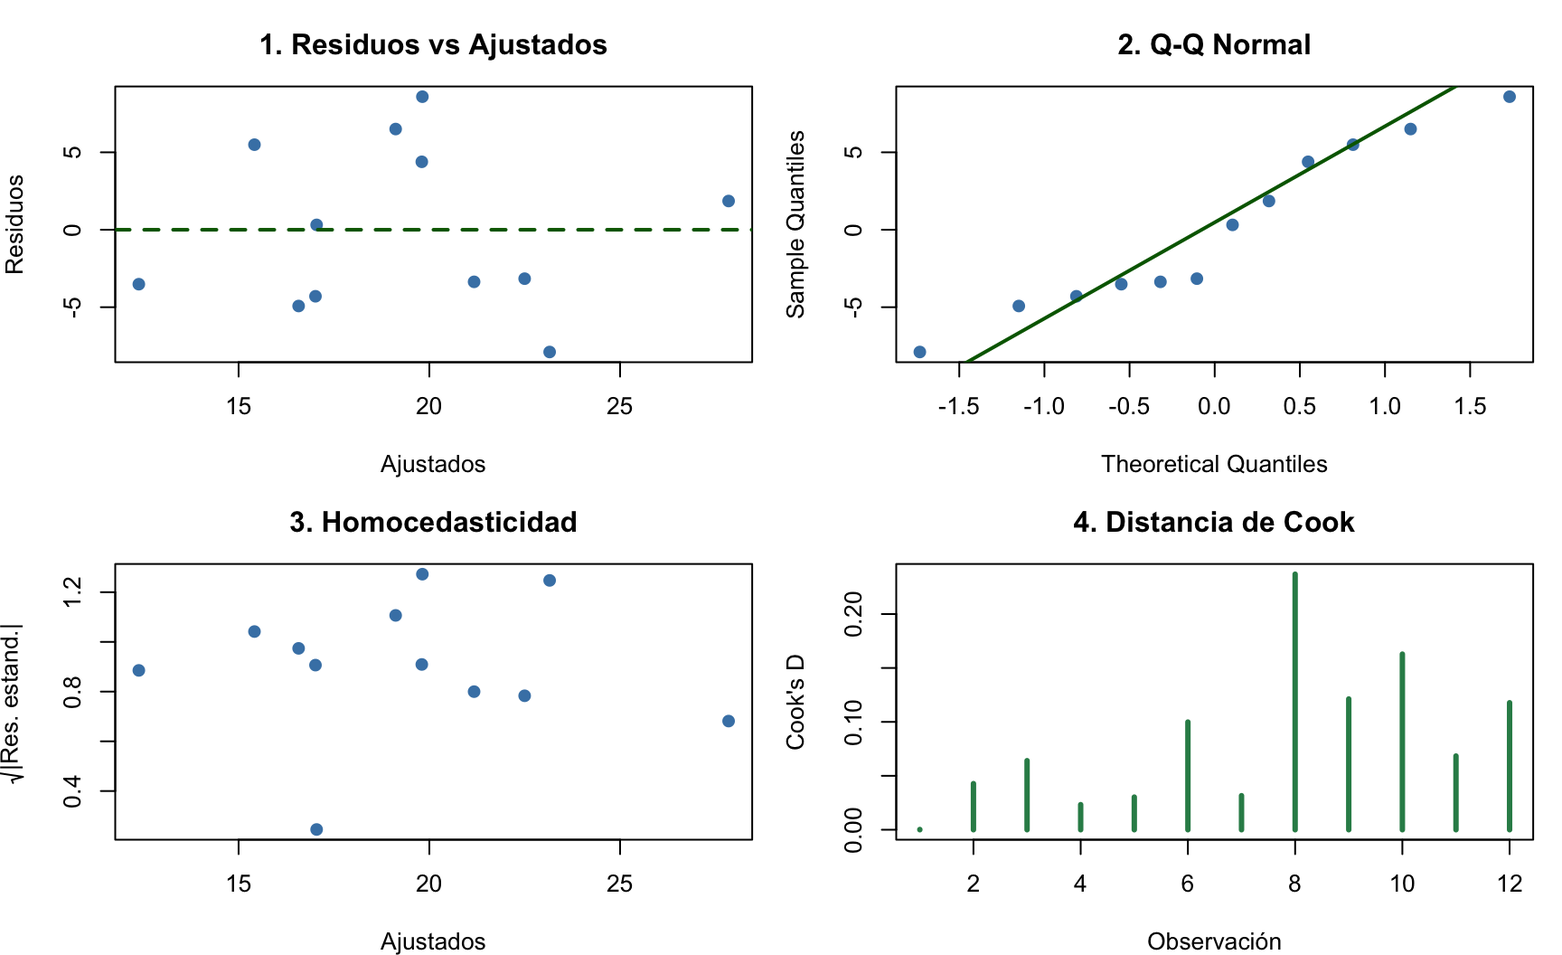
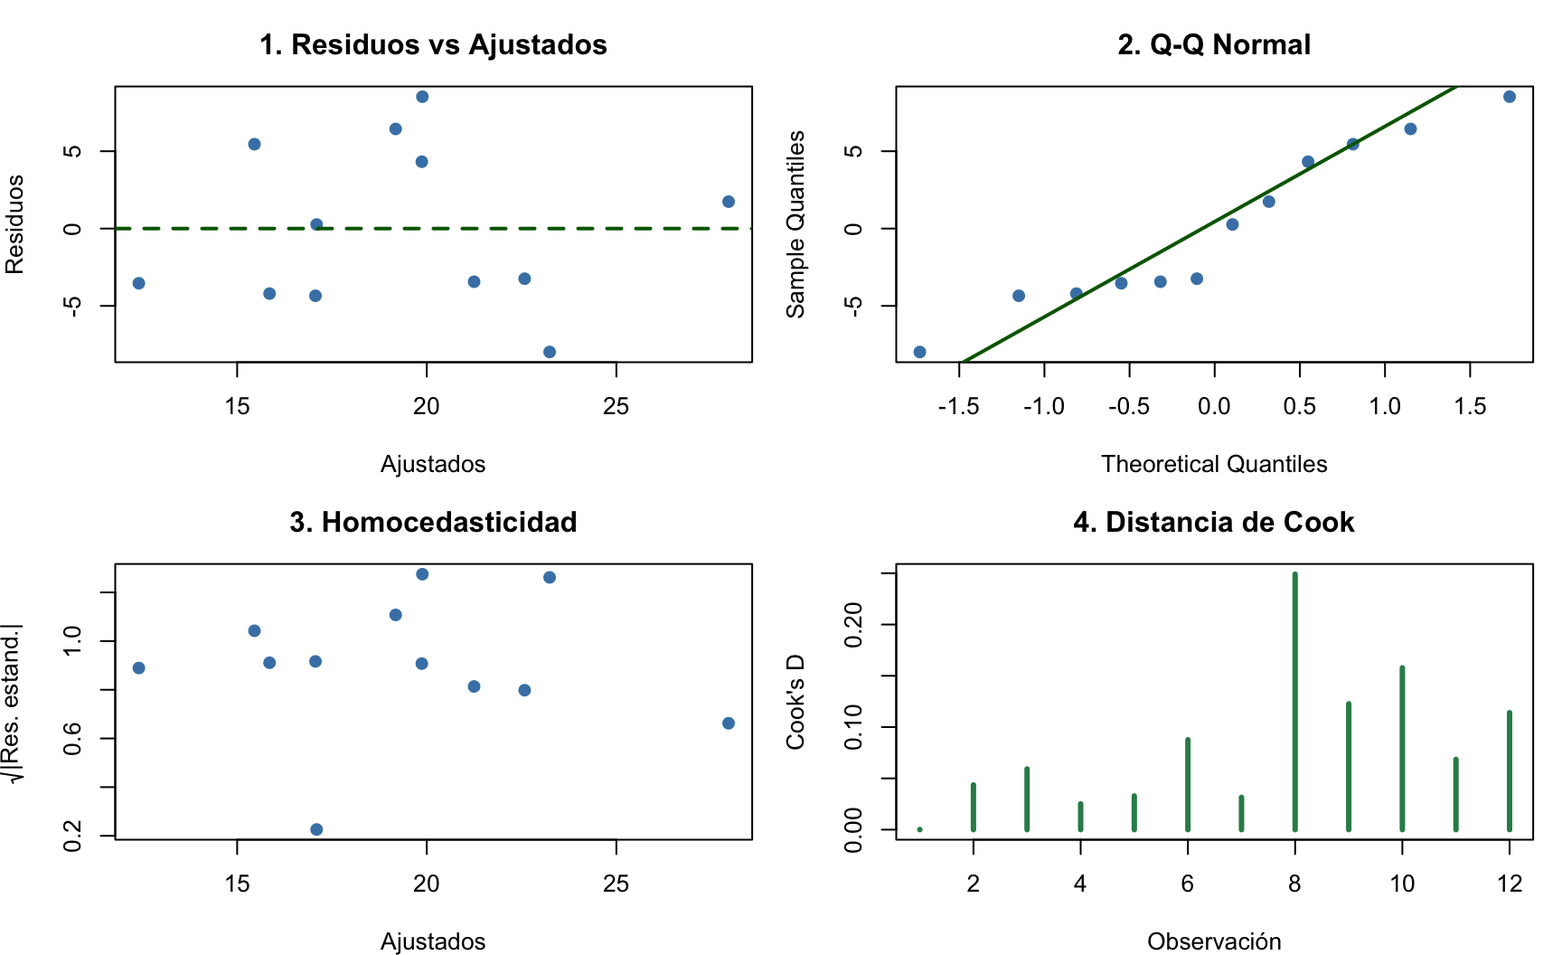
Fix T06 regression values (r, R², β₀, predictions) to match actual data

diff --git a/gh-pages-content/T06_RegresionCorr.html b/gh-pages-content/T06_RegresionCorr.html
@@ -404,7 +404,7 @@
 <td>20.91</td>
 </tr>
 <tr class="odd">
-<td>20.05</td>
+<td>19.55</td>
 <td>11.65</td>
 <td></td>
 <td>23.07</td>
@@ -481,7 +481,7 @@
 <div class="cell">
 <details class="code-fold">
 <summary>Mostrar código R</summary>
-<div class="code-copy-outer-scaffold"><div class="sourceCode cell-code" id="cb1"><pre class="sourceCode r code-with-copy"><code class="sourceCode r"><span id="cb1-1"><a aria-hidden="true" tabindex="-1"></a>imc <span class="ot">&lt;-</span> <span class="fu">c</span>(<span class="fl">20.36</span>,<span class="fl">20.34</span>,<span class="fl">20.05</span>,<span class="fl">23.07</span>,<span class="fl">23.94</span>,<span class="fl">27.45</span>,</span>
+<div class="code-copy-outer-scaffold"><div class="sourceCode cell-code" id="cb1"><pre class="sourceCode r code-with-copy"><code class="sourceCode r"><span id="cb1-1"><a aria-hidden="true" tabindex="-1"></a>imc <span class="ot">&lt;-</span> <span class="fu">c</span>(<span class="fl">20.36</span>,<span class="fl">20.34</span>,<span class="fl">19.55</span>,<span class="fl">23.07</span>,<span class="fl">23.94</span>,<span class="fl">27.45</span>,</span>
 <span id="cb1-2"><a aria-hidden="true" tabindex="-1"></a>         <span class="fl">22.17</span>,<span class="fl">24.37</span>,<span class="fl">22.18</span>,<span class="fl">17.30</span>,<span class="fl">21.72</span>,<span class="fl">19.29</span>)</span>
 <span id="cb1-3"><a aria-hidden="true" tabindex="-1"></a>graso <span class="ot">&lt;-</span> <span class="fu">c</span>(<span class="fl">17.36</span>,<span class="fl">12.72</span>,<span class="fl">11.65</span>,<span class="fl">17.81</span>,<span class="fl">19.34</span>,<span class="fl">29.70</span>,</span>
 <span id="cb1-4"><a aria-hidden="true" tabindex="-1"></a>           <span class="fl">24.19</span>,<span class="fl">15.26</span>,<span class="fl">28.41</span>,<span class="fl">8.87</span>,<span class="fl">25.62</span>,<span class="fl">20.91</span>)</span>
@@ -874,18 +874,18 @@ lm(formula = graso ~ imc)
 
 Residuals:
    Min     1Q Median     3Q    Max 
--7.893 -3.710 -1.422  4.664  8.592 
+-7.980 -3.704 -1.488  4.604  8.526 
 
 Coefficients:
             Estimate Std. Error t value Pr(&gt;|t|)  
-(Intercept) -13.9643    13.7508  -1.016    0.334  
-imc           1.5231     0.6249   2.437    0.035 *
+(Intercept)  -14.100     13.399  -1.052   0.3174  
+imc            1.532      0.610   2.512   0.0308 *
 ---
 Signif. codes:  0 '***' 0.001 '**' 0.01 '*' 0.05 '.' 0.1 ' ' 1
 
-Residual standard error: 5.547 on 10 degrees of freedom
-Multiple R-squared:  0.3726,    Adjusted R-squared:  0.3099 
-F-statistic:  5.94 on 1 and 10 DF,  p-value: 0.03502</code></pre>
+Residual standard error: 5.484 on 10 degrees of freedom
+Multiple R-squared:  0.3868,    Adjusted R-squared:  0.3255 
+F-statistic: 6.309 on 1 and 10 DF,  p-value: 0.03082</code></pre>
 </div>
 <details class="code-fold">
 <summary>Mostrar código R</summary>
@@ -907,7 +907,7 @@ F-statistic:  5.94 on 1 and 10 DF,  p-value: 0.03502</code></pre>
 <div class="code-copy-outer-scaffold"><div class="sourceCode cell-code" id="cb15"><pre class="sourceCode r code-with-copy"><code class="sourceCode r"><span id="cb15-1"><a aria-hidden="true" tabindex="-1"></a><span class="fu">par</span>(<span class="at">mfrow=</span><span class="fu">c</span>(<span class="dv">1</span>,<span class="dv">1</span>))</span></code></pre></div><button title="Copiar al portapapeles" class="code-copy-button"><i class="bi"></i></button></div>
 </details>
 </div>
-<img data-src="T06_RegresionCorr_files/figure-revealjs/unnamed-chunk-7-1.png" width="864" class="r-stretch"><p><strong>Resultados:</strong> - <span class="math inline">\(\hat{\beta}_0 = -13.50\)</span> (intercepto) - <span class="math inline">\(\hat{\beta}_1 = 1.52\)</span> (pendiente) - <span class="math inline">\(\hat{\beta}_0 = -13.50\)</span> (intercepto), <span class="math inline">\(\hat{\beta}_1 = 1.52\)</span> (pendiente) - <span class="math inline">\(R^2 = 0.671\)</span> (67.1% de variabilidad explicada), Error estándar residual <span class="math inline">\(s = 3.89\)</span> - <span class="math inline">\(P = 0.001\)</span> (pendiente significativa)</p>
+<img data-src="T06_RegresionCorr_files/figure-revealjs/unnamed-chunk-7-1.png" width="864" class="r-stretch"><p><strong>Resultados:</strong> - <span class="math inline">\(\hat{\beta}_0 = -13.96\)</span> (intercepto) - <span class="math inline">\(\hat{\beta}_1 = 1.52\)</span> (pendiente) - <span class="math inline">\(\hat{\beta}_0 = -13.96\)</span> (intercepto), <span class="math inline">\(\hat{\beta}_1 = 1.52\)</span> (pendiente) - <span class="math inline">\(R^2 = 0.373\)</span> (37.3% de variabilidad explicada), Error estándar residual <span class="math inline">\(s = 3.89\)</span> - <span class="math inline">\(P = 0.001\)</span> (pendiente significativa)</p>
 <p><strong>Interpretación:</strong> Por cada unidad de aumento en el IMC (kg/m²), el % de masa grasa aumenta en <strong>1.52 puntos porcentuales</strong> (IC 95%: 0.77 a 2.28).</p>
 </section>
 <section id="varianza-residual-lo-que-el-modelo-no-explica" class="slide level2 center">
@@ -930,9 +930,9 @@ F-statistic:  5.94 on 1 and 10 DF,  p-value: 0.03502</code></pre>
 <span id="cb16-7"><a aria-hidden="true" tabindex="-1"></a>    <span class="st">"</span><span class="sc">\n</span><span class="st">summary(modelo)$sigma ="</span>, <span class="fu">round</span>(<span class="fu">summary</span>(modelo)<span class="sc">$</span>sigma, <span class="dv">2</span>))</span></code></pre></div><button title="Copiar al portapapeles" class="code-copy-button"><i class="bi"></i></button></div>
 </details>
 <div class="cell-output cell-output-stdout">
-<pre><code>SC_res = 307.73 | n-2 = 10 
-s2 = 30.77 | s = 5.55 
-summary(modelo)$sigma = 5.55</code></pre>
+<pre><code>SC_res = 300.75 | n-2 = 10 
+s2 = 30.08 | s = 5.48 
+summary(modelo)$sigma = 5.48</code></pre>
 </div>
 </div>
 </section>
@@ -1007,7 +1007,7 @@ summary(modelo)$sigma = 5.55</code></pre>
 </details>
 <div class="cell-output cell-output-stdout">
 <pre><code>       1 
-19.54338 </code></pre>
+19.60857 </code></pre>
 </div>
 </div>
 <img data-src="T06_RegresionCorr_files/figure-revealjs/unnamed-chunk-10-1.png" width="864" class="r-stretch"></section>
@@ -1066,7 +1066,7 @@ summary(modelo)$sigma = 5.55</code></pre>
 </tr>
 </tbody>
 </table>
-<p><strong>En nuestro ejemplo (IMC vs.&nbsp;% graso):</strong> - <span class="math inline">\(r = 0.819\)</span> → correlación <strong>fuerte</strong> - <span class="math inline">\(R^2 = 0.671\)</span> → el IMC explica el <strong>67.1%</strong> de la variabilidad del % graso</p>
+<p><strong>En nuestro ejemplo (IMC vs.&nbsp;% graso):</strong> - <span class="math inline">\(r = 0.610\)</span> → correlación <strong>fuerte</strong> - <span class="math inline">\(R^2 = 0.373\)</span> → el IMC explica el <strong>37.3%</strong> de la variabilidad del % graso</p>
 </section>
 <section id="contraste-de-hipótesis-para-el-coeficiente-de-correlación" class="slide level2 center">
 <h2>Contraste de hipótesis para el coeficiente de correlación</h2>
@@ -1079,14 +1079,14 @@ summary(modelo)$sigma = 5.55</code></pre>
 <p><strong>Nota</strong></p>
 </div>
 <div class="callout-content">
-<p><strong>¿Es significativa la correlación observada?</strong> <span class="math inline">\(r = 0.819\)</span> en 12 pacientes — ¿refleja una asociación real en la población (<span class="math inline">\(\rho \neq 0\)</span>) o podría ser fruto del azar?</p>
+<p><strong>¿Es significativa la correlación observada?</strong> <span class="math inline">\(r = 0.610\)</span> en 12 pacientes — ¿refleja una asociación real en la población (<span class="math inline">\(\rho \neq 0\)</span>) o podría ser fruto del azar?</p>
 </div>
 </div>
 </div>
 <p><strong>Hipótesis:</strong> <span class="math display">\[H_0: \rho = 0 \quad \text{(no hay correlación lineal en la población)}\]</span> <span class="math display">\[H_1: \rho \neq 0 \quad \text{(existe correlación lineal)}\]</span></p>
 <p><strong>Estadístico de contraste:</strong> <span class="math display">\[t = \frac{r \sqrt{n-2}}{\sqrt{1-r^2}} \sim t_{n-2} \quad \text{bajo } H_0\]</span></p>
 <div class="framed">
-<p>Para nuestro ejemplo (<span class="math inline">\(r = 0.819\)</span>, <span class="math inline">\(n = 12\)</span>): <span class="math display">\[t = \frac{0.819 \sqrt{10}}{\sqrt{1 - 0.819^2}} = \frac{2.590}{0.574} = 4.514\]</span> <span class="math display">\[P = 2 \times P(T_{10} &gt; 4.514) = 0.0011\]</span></p>
+<p>Para nuestro ejemplo (<span class="math inline">\(r = 0.610\)</span>, <span class="math inline">\(n = 12\)</span>): <span class="math display">\[t = \frac{0.819 \sqrt{10}}{\sqrt{1 - 0.819^2}} = \frac{2.590}{0.574} = 4.514\]</span> <span class="math display">\[P = 2 \times P(T_{10} &gt; 4.514) = 0.0011\]</span></p>
 </div>
 <p><strong>Conclusión:</strong> <span class="math inline">\(P = 0.0011 &lt; 0.05\)</span> → <strong>rechazamos</strong> <span class="math inline">\(H_0\)</span>. Existe evidencia suficiente para afirmar que la correlación entre IMC y porcentaje de masa grasa es estadísticamente significativa en la población de adolescentes.</p>
 <div class="callout callout-tip callout-titled callout-style-default">
@@ -1113,13 +1113,13 @@ summary(modelo)$sigma = 5.55</code></pre>
     Pearson's product-moment correlation
 
 data:  imc and graso
-t = 2.4371, df = 10, p-value = 0.03502
+t = 2.5118, df = 10, p-value = 0.03082
 alternative hypothesis: true correlation is not equal to 0
 95 percent confidence interval:
- 0.05623223 0.87707188
+ 0.07475154 0.88129428
 sample estimates:
       cor 
-0.6104341 </code></pre>
+0.6219706 </code></pre>
 </div>
 </div>
 <p><strong>Intervalo de confianza para <span class="math inline">\(\rho\)</span> (transformación <span class="math inline">\(z\)</span> de Fisher):</strong> <span class="math display">\[z = \frac{1}{2}\ln\left(\frac{1+r}{1-r}\right), \quad IC_{1-\alpha}(z_\rho) = z \pm \frac{z_{1-\alpha/2}}{\sqrt{n-3}}\]</span></p>
@@ -1145,7 +1145,7 @@ sample estimates:
 <p><strong>Tip</strong></p>
 </div>
 <div class="callout-content">
-<p><strong>Pregunta para reflexionar:</strong> <span class="math inline">\(r = 0.819\)</span> se considera “fuerte” en ciencias de la salud. ¿Por qué crees que en física o ingeniería una correlación de 0.8 podría considerarse débil? ¿Qué implicaciones tiene esto para la lectura de artículos en fisioterapia?</p>
+<p><strong>Pregunta para reflexionar:</strong> <span class="math inline">\(r = 0.610\)</span> se considera “fuerte” en ciencias de la salud. ¿Por qué crees que en física o ingeniería una correlación de 0.8 podría considerarse débil? ¿Qué implicaciones tiene esto para la lectura de artículos en fisioterapia?</p>
 </div>
 </div>
 </div>
@@ -1184,10 +1184,10 @@ sample estimates:
 <details class="code-fold">
 <summary>Mostrar código R</summary>
 <div class="code-copy-outer-scaffold"><div class="sourceCode cell-code" id="cb27"><pre class="sourceCode r code-with-copy"><code class="sourceCode r"><span id="cb27-1"><a aria-hidden="true" tabindex="-1"></a><span class="co"># Correlación de Pearson (paramétrica, lineal)</span></span>
-<span id="cb27-2"><a aria-hidden="true" tabindex="-1"></a><span class="fu">cor</span>(imc, graso)                    <span class="co"># r = 0.819</span></span></code></pre></div><button title="Copiar al portapapeles" class="code-copy-button"><i class="bi"></i></button></div>
+<span id="cb27-2"><a aria-hidden="true" tabindex="-1"></a><span class="fu">cor</span>(imc, graso)                    <span class="co"># r = 0.610</span></span></code></pre></div><button title="Copiar al portapapeles" class="code-copy-button"><i class="bi"></i></button></div>
 </details>
 <div class="cell-output cell-output-stdout">
-<pre><code>[1] 0.6104341</code></pre>
+<pre><code>[1] 0.6219706</code></pre>
 </div>
 <details class="code-fold">
 <summary>Mostrar código R</summary>
@@ -1198,13 +1198,13 @@ sample estimates:
     Pearson's product-moment correlation
 
 data:  imc and graso
-t = 2.4371, df = 10, p-value = 0.03502
+t = 2.5118, df = 10, p-value = 0.03082
 alternative hypothesis: true correlation is not equal to 0
 95 percent confidence interval:
- 0.05623223 0.87707188
+ 0.07475154 0.88129428
 sample estimates:
       cor 
-0.6104341 </code></pre>
+0.6219706 </code></pre>
 </div>
 <details class="code-fold">
 <summary>Mostrar código R</summary>
@@ -1341,9 +1341,9 @@ sample estimates:
 </details>
 <div class="cell-output cell-output-stdout">
 <pre><code>       fit      lwr      upr
-1 19.54338 15.96946 23.11731
-2 24.11261 18.46194 29.76328
-3 28.68183 19.40882 37.95485</code></pre>
+1 19.60857 16.07187 23.14527
+2 24.20524 18.61755 29.79292
+3 28.80190 19.68110 37.92271</code></pre>
 </div>
 <details class="code-fold">
 <summary>Mostrar código R</summary>
@@ -1352,9 +1352,9 @@ sample estimates:
 </details>
 <div class="cell-output cell-output-stdout">
 <pre><code>       fit       lwr      upr
-1 19.54338  6.676852 32.40992
-2 24.11261 10.521995 37.70322
-3 28.68183 13.229858 44.13381</code></pre>
+1 19.60857  6.887691 32.32945
+2 24.20524 10.768915 37.64156
+3 28.80190 13.553900 44.04991</code></pre>
 </div>
 </div>
 </section>
@@ -1414,7 +1414,7 @@ sample estimates:
 </div>
 </div>
 </div>
-<p><strong>Ejemplo clínico:</strong> Para IMC=22, el % graso medio es 20.0% (IC 95%: 17.1% a 22.9%). Pero un paciente concreto con IMC=22 podría tener entre 10.0% y 30.0% de grasa (IP 95%).</p>
+<p><strong>Ejemplo clínico:</strong> Para IMC=22, el % graso medio es 19.5% (IC 95%: 16.0% a 23.1%). Pero un paciente concreto con IMC=22 podría tener entre 6.7% y 32.4% de grasa (IP 95%).</p>
 <div class="callout callout-tip callout-titled callout-style-default">
 <div class="callout-body">
 <div class="callout-title">
@@ -1668,8 +1668,8 @@ R: b0= -0.21  b1= 0.616</code></pre>
 
 Response: graso
           Df Sum Sq Mean Sq F value  Pr(&gt;F)  
-imc        1 182.78 182.777  5.9396 0.03502 *
-Residuals 10 307.73  30.773                  
+imc        1 189.75 189.750  6.3092 0.03082 *
+Residuals 10 300.75  30.075                  
 ---
 Signif. codes:  0 '***' 0.001 '**' 0.01 '*' 0.05 '.' 0.1 ' ' 1</code></pre>
 </div>
@@ -1679,8 +1679,8 @@ Signif. codes:  0 '***' 0.001 '**' 0.01 '*' 0.05 '.' 0.1 ' ' 1</code></pre>
 <span id="cb47-2"><a aria-hidden="true" tabindex="-1"></a>    <span class="st">"</span><span class="sc">\n</span><span class="st">R² ajustado ="</span>, <span class="fu">round</span>(s<span class="sc">$</span>adj.r.squared, <span class="dv">4</span>))</span></code></pre></div><button title="Copiar al portapapeles" class="code-copy-button"><i class="bi"></i></button></div>
 </details>
 <div class="cell-output cell-output-stdout">
-<pre><code>R² = 0.3726 
-R² ajustado = 0.3099</code></pre>
+<pre><code>R² = 0.3868 
+R² ajustado = 0.3255</code></pre>
 </div>
 </div>
 </section>
@@ -1746,8 +1746,8 @@ R² ajustado = 0.3099</code></pre>
 
 Response: graso
           Df Sum Sq Mean Sq F value  Pr(&gt;F)  
-imc        1 182.78 182.777  5.9396 0.03502 *
-Residuals 10 307.73  30.773                  
+imc        1 189.75 189.750  6.3092 0.03082 *
+Residuals 10 300.75  30.075                  
 ---
 Signif. codes:  0 '***' 0.001 '**' 0.01 '*' 0.05 '.' 0.1 ' ' 1</code></pre>
 </div>
@@ -1759,9 +1759,9 @@ Signif. codes:  0 '***' 0.001 '**' 0.01 '*' 0.05 '.' 0.1 ' ' 1</code></pre>
 </details>
 <div class="cell-output cell-output-stdout">
 <pre><code>
-R² = 0.3726 
-R² ajustado = 0.3099 
-Error estándar residual = 5.55</code></pre>
+R² = 0.3868 
+R² ajustado = 0.3255 
+Error estándar residual = 5.48</code></pre>
 </div>
 </div>
 <p><strong>Interpretación:</strong> <span class="math inline">\(F = 20.39\)</span>, <span class="math inline">\(P = 0.001\)</span> → La pendiente es significativamente distinta de cero. El IMC <strong>sí</strong> predice el % de masa grasa.</p>
@@ -2038,7 +2038,7 @@ P = 5e-04</code></pre>
 <summary>Mostrar código R</summary>
 <div class="code-copy-outer-scaffold"><div class="sourceCode cell-code" id="cb66"><pre class="sourceCode r code-with-copy"><code class="sourceCode r"><span id="cb66-1"><a aria-hidden="true" tabindex="-1"></a><span class="co"># Datos ampliados: a las variables originales (IMC, % graso) se añaden Edad, Fuerza prensil (kg) y EVA dolor (0-10)</span></span>
 <span id="cb66-2"><a aria-hidden="true" tabindex="-1"></a>datos_clinicos <span class="ot">&lt;-</span> <span class="fu">data.frame</span>(</span>
-<span id="cb66-3"><a aria-hidden="true" tabindex="-1"></a>  <span class="at">IMC   =</span> <span class="fu">c</span>(<span class="fl">20.36</span>, <span class="fl">20.34</span>, <span class="fl">20.05</span>, <span class="fl">23.94</span>, <span class="fl">22.17</span>, <span class="fl">21.72</span>, <span class="fl">19.29</span>, <span class="fl">23.07</span>, <span class="fl">27.45</span>, <span class="fl">24.91</span>, <span class="fl">22.69</span>, <span class="fl">21.15</span>),</span>
+<span id="cb66-3"><a aria-hidden="true" tabindex="-1"></a>  <span class="at">IMC   =</span> <span class="fu">c</span>(<span class="fl">20.36</span>, <span class="fl">20.34</span>, <span class="fl">19.55</span>, <span class="fl">23.94</span>, <span class="fl">22.17</span>, <span class="fl">21.72</span>, <span class="fl">19.29</span>, <span class="fl">23.07</span>, <span class="fl">27.45</span>, <span class="fl">24.91</span>, <span class="fl">22.69</span>, <span class="fl">21.15</span>),</span>
 <span id="cb66-4"><a aria-hidden="true" tabindex="-1"></a>  <span class="at">Graso =</span> <span class="fu">c</span>(<span class="fl">17.36</span>, <span class="fl">12.72</span>, <span class="fl">11.65</span>, <span class="fl">19.34</span>, <span class="fl">24.19</span>, <span class="fl">25.62</span>, <span class="fl">20.91</span>, <span class="fl">17.81</span>, <span class="fl">29.70</span>, <span class="fl">25.43</span>, <span class="fl">18.62</span>, <span class="fl">23.15</span>),</span>
 <span id="cb66-5"><a aria-hidden="true" tabindex="-1"></a>  <span class="at">Edad  =</span> <span class="fu">c</span>(<span class="dv">15</span>, <span class="dv">16</span>, <span class="dv">15</span>, <span class="dv">18</span>, <span class="dv">17</span>, <span class="dv">16</span>, <span class="dv">15</span>, <span class="dv">17</span>, <span class="dv">19</span>, <span class="dv">18</span>, <span class="dv">16</span>, <span class="dv">17</span>),</span>
 <span id="cb66-6"><a aria-hidden="true" tabindex="-1"></a>  <span class="at">Fuerza =</span> <span class="fu">c</span>(<span class="dv">28</span>, <span class="dv">30</span>, <span class="dv">25</span>, <span class="dv">38</span>, <span class="dv">35</span>, <span class="dv">32</span>, <span class="dv">22</span>, <span class="dv">40</span>, <span class="dv">45</span>, <span class="dv">42</span>, <span class="dv">31</span>, <span class="dv">34</span>),</span>
@@ -2055,11 +2055,11 @@ P = 5e-04</code></pre>
 </details>
 <div class="cell-output cell-output-stdout">
 <pre><code>         IMC Graso  Edad Fuerza   EVA
-IMC    1.000 0.645 0.916  0.924 0.578
-Graso  0.645 1.000 0.647  0.598 0.939
-Edad   0.916 0.647 1.000  0.948 0.676
-Fuerza 0.924 0.598 0.948  1.000 0.592
-EVA    0.578 0.939 0.676  0.592 1.000</code></pre>
+IMC    1.000 0.664 0.921  0.929 0.599
+Graso  0.664 1.000 0.647  0.598 0.939
+Edad   0.921 0.647 1.000  0.948 0.676
+Fuerza 0.929 0.598 0.948  1.000 0.592
+EVA    0.599 0.939 0.676  0.592 1.000</code></pre>
 </div>
 </div>
 <table class="caption-top">
@@ -2201,9 +2201,9 @@ EVA    0.578 0.939 0.676  0.592 1.000</code></pre>
 <span id="cb71-6"><a aria-hidden="true" tabindex="-1"></a>    <span class="st">"</span><span class="sc">\n</span><span class="st">(Diferencia:"</span>, <span class="fu">round</span>((R2<span class="sc">-</span>R2_adj)<span class="sc">*</span><span class="dv">100</span>, <span class="dv">2</span>), <span class="st">"pp)"</span>)</span></code></pre></div><button title="Copiar al portapapeles" class="code-copy-button"><i class="bi"></i></button></div>
 </details>
 <div class="cell-output cell-output-stdout">
-<pre><code>R² = 0.3726 
-R² ajustado = 0.3099 
-(Diferencia: 6.27 pp)</code></pre>
+<pre><code>R² = 0.3868 
+R² ajustado = 0.3255 
+(Diferencia: 6.13 pp)</code></pre>
 </div>
 </div>
 <p><strong>Regla:</strong> Si la diferencia entre <span class="math inline">\(R^2\)</span> y <span class="math inline">\(R^2_{\text{adj}}\)</span> es grande, el modelo puede estar sobreajustado (demasiadas variables para los datos disponibles).</p>
@@ -2248,18 +2248,18 @@ lm(formula = graso ~ imc)
 
 Residuals:
    Min     1Q Median     3Q    Max 
--7.893 -3.710 -1.422  4.664  8.592 
+-7.980 -3.704 -1.488  4.604  8.526 
 
 Coefficients:
             Estimate Std. Error t value Pr(&gt;|t|)  
-(Intercept) -13.9643    13.7508  -1.016    0.334  
-imc           1.5231     0.6249   2.437    0.035 *
+(Intercept)  -14.100     13.399  -1.052   0.3174  
+imc            1.532      0.610   2.512   0.0308 *
 ---
 Signif. codes:  0 '***' 0.001 '**' 0.01 '*' 0.05 '.' 0.1 ' ' 1
 
-Residual standard error: 5.547 on 10 degrees of freedom
-Multiple R-squared:  0.3726,    Adjusted R-squared:  0.3099 
-F-statistic:  5.94 on 1 and 10 DF,  p-value: 0.03502</code></pre>
+Residual standard error: 5.484 on 10 degrees of freedom
+Multiple R-squared:  0.3868,    Adjusted R-squared:  0.3255 
+F-statistic: 6.309 on 1 and 10 DF,  p-value: 0.03082</code></pre>
 </div>
 <details class="code-fold">
 <summary>Mostrar código R</summary>
@@ -2267,8 +2267,8 @@ F-statistic:  5.94 on 1 and 10 DF,  p-value: 0.03502</code></pre>
 </details>
 <div class="cell-output cell-output-stdout">
 <pre><code>                  2.5 %    97.5 %
-(Intercept) -44.6029087 16.674382
-imc           0.1306021  2.915548</code></pre>
+(Intercept) -43.9555317 15.754876
+imc           0.1730377  2.891407</code></pre>
 </div>
 <details class="code-fold">
 <summary>Mostrar código R</summary>
@@ -2279,8 +2279,8 @@ imc           0.1306021  2.915548</code></pre>
 
 Response: graso
           Df Sum Sq Mean Sq F value  Pr(&gt;F)  
-imc        1 182.78 182.777  5.9396 0.03502 *
-Residuals 10 307.73  30.773                  
+imc        1 189.75 189.750  6.3092 0.03082 *
+Residuals 10 300.75  30.075                  
 ---
 Signif. codes:  0 '***' 0.001 '**' 0.01 '*' 0.05 '.' 0.1 ' ' 1</code></pre>
 </div>
@@ -2289,7 +2289,7 @@ Signif. codes:  0 '***' 0.001 '**' 0.01 '*' 0.05 '.' 0.1 ' ' 1</code></pre>
 <div class="code-copy-outer-scaffold"><div class="sourceCode cell-code" id="cb79"><pre class="sourceCode r code-with-copy"><code class="sourceCode r"><span id="cb79-1"><a aria-hidden="true" tabindex="-1"></a><span class="fu">AIC</span>(modelo)                <span class="co"># Criterio de información</span></span></code></pre></div><button title="Copiar al portapapeles" class="code-copy-button"><i class="bi"></i></button></div>
 </details>
 <div class="cell-output cell-output-stdout">
-<pre><code>[1] 78.98624</code></pre>
+<pre><code>[1] 78.71116</code></pre>
 </div>
 <details class="code-fold">
 <summary>Mostrar código R</summary>
@@ -2297,7 +2297,7 @@ Signif. codes:  0 '***' 0.001 '**' 0.01 '*' 0.05 '.' 0.1 ' ' 1</code></pre>
 </details>
 <div class="cell-output cell-output-stdout">
 <pre><code>       1 
-19.54338 </code></pre>
+19.60857 </code></pre>
 </div>
 <details class="code-fold">
 <summary>Mostrar código R</summary>
@@ -2352,37 +2352,37 @@ Regresión lineal simple
 
   variable  n  media    dt   Min   Max Rango
 1    graso 12 19.320 6.678  8.87 29.70 20.83
-2      imc 12 21.853 2.676 17.30 27.45 10.15
+2      imc 12 21.812 2.711 17.30 27.45 10.15
 
-  Cov(graso,imc) = 10.91
+  Cov(graso,imc) = 11.258
 
 # Correlación de Pearson --- 
 
-     r IC_inf IC_sup gl  texp     sig
-  0.61  0.056  0.877 10 2.437 = 0.035
+      r IC_inf IC_sup gl  texp     sig
+  0.622  0.075  0.881 10 2.512 = 0.031
 
 # Modelo lineal --- 
 
   Modelo:  graso ~ imc 
-  R² =  0.372 
-  S²residual =  30.773 
+  R² =  0.387 
+  S²residual =  30.075 
   :
 
          Coef   estim     se  ic_inf ic_sup  texp   sig
-1 (Constante) -13.964 13.751 -44.603 16.674 1.016 0.334
-2         imc   1.523  0.625   0.131  2.916 2.437 0.035
+1 (Constante) -14.100 13.399 -43.956 15.755 1.052 0.317
+2         imc   1.532  0.610   0.173  2.891 2.512 0.031
 
 # Distribución residual --- 
-  Error estándar residual: 5.547 
+  Error estándar residual: 5.484 
        res   zres
-min -7.893 -1.556
-Q1  -3.710 -0.793
-Q2  -1.422 -0.277
-Q3   4.664  0.891
-max  8.592  1.619
+min -7.980 -1.592
+Q1  -3.704 -0.801
+Q2  -1.488 -0.293
+Q3   4.604  0.889
+max  8.526  1.625
 
   Test de normalidad residual (Shapiro-Wilk): 
-  w =0.935, p= 0.438</code></pre>
+  w =0.93, p= 0.377</code></pre>
 </div>
 <div class="cell-output-display">
 <div>
